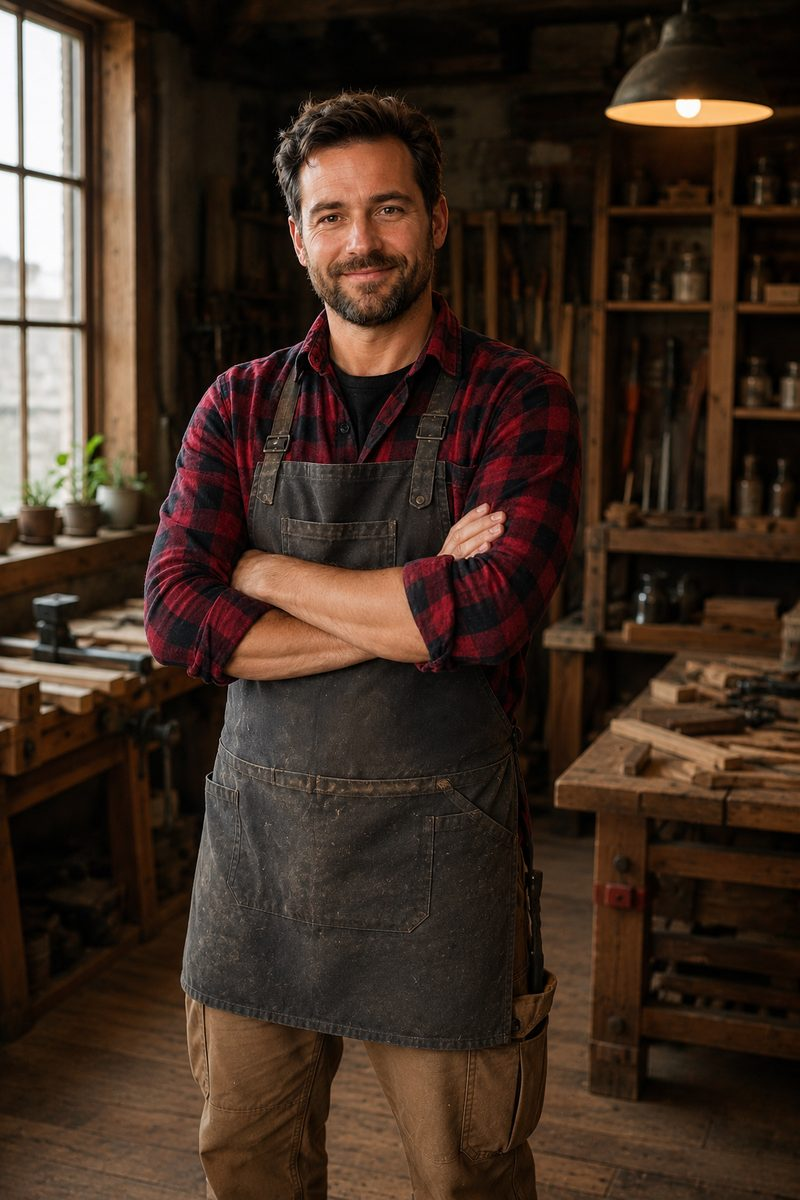
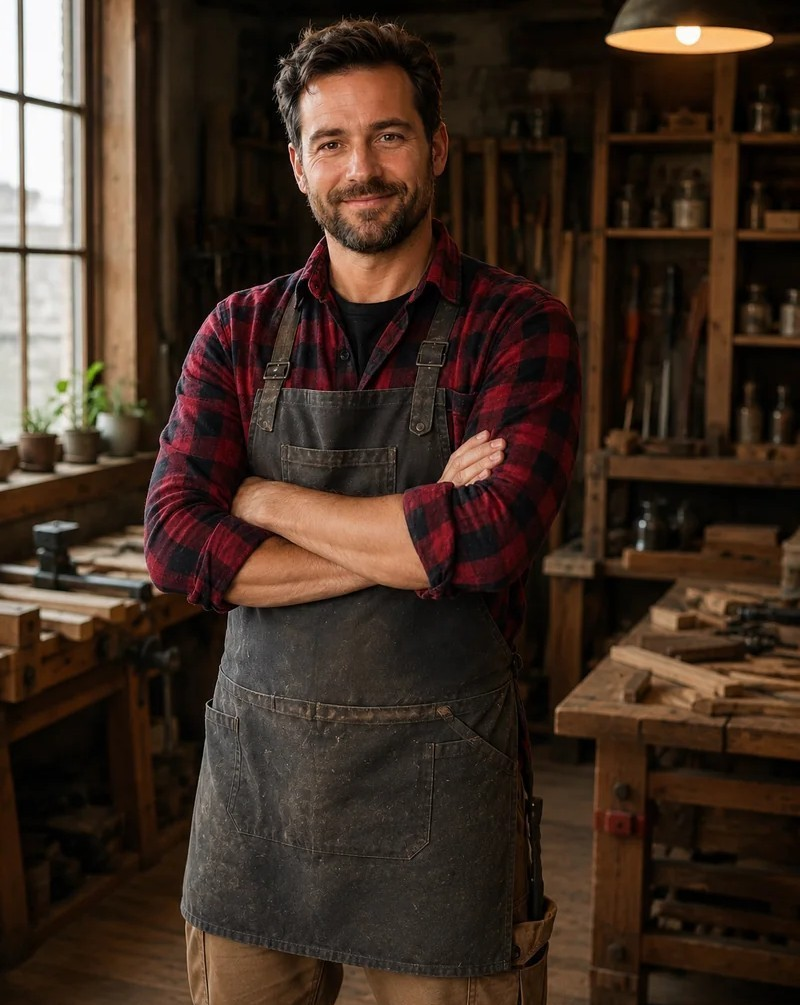
tweak(hero): ajustements perso Romain — form 450px, tuiles 100px, texte translate-y-12
Hero.tsx :
- Form : w-[450px] fixe sur desktop (vs max-w 680 contraint par la grille
  auto), padding lg:p-6, header non-collant, badge +127 plus visible
- Stepper : cercles rounded-md, labels 11px, h2 23px leading 1.1
- Tuiles categories : h-[100px] (vs 76), icones 35px (vs 18) — plus
  imposantes et lisibles
- Bande photo : left 42% / right 40% (vs 40/35), mask fade 75px (vs 100),
  backgroundImage swap webp → jpg
- Wrapper contenu : max-w-[1350px] (vs 1280), padding vertical compact
  lg:pb-2 lg:pt-4
- Grid : items-start (vs items-center), min-h 500 (vs 700)
- Bloc texte gauche : lg:translate-y-12 (decalage vertical), H1 mt-1 (vs mt-5)

public/images/hero-artisan-800.jpg : remplace par version plus haute resolution

button.tsx : auto-format (semicolons + commas trailing, par le linter)

diff --git a/src/components/ds/Hero.tsx b/src/components/ds/Hero.tsx
@@ -47,36 +47,36 @@ function FormCard() {
   return (
     <form
       onSubmit={handleSubmit}
-      className="w-full max-w-[680px] rounded-md border border-slate-200/70 bg-white p-8 lg:p-10"
+      className="w-full lg:w-[450px] rounded-md border border-slate-200/70 bg-white p-8 lg:p-6"
       style={{
         boxShadow:
           "0 20px 40px -12px rgba(15, 23, 42, 0.22), 0 6px 16px -6px rgba(15, 23, 42, 0.10)",
       }}
       noValidate
     >
-      <div className="flex items-start justify-between gap-3">
+      <div className="flex items-start justify-between">
         <div>
-          <h2 className="text-[20px] font-bold leading-snug tracking-tight text-slate-900 lg:text-[22px]">
+          <h2 className="text-[23px] font-bold leading-[1.1] tracking-tight text-slate-900">
             Décrivez votre besoin
             <br />
             en 2 minutes
           </h2>
-          <p className="mt-1 text-[13px] text-slate-500">
+          <p className="mt-2 text-[14px] text-slate-500">
             Gratuit, rapide et sans engagement
           </p>
         </div>
         <span
-          className="inline-flex shrink-0 flex-col items-end rounded-md px-2.5 py-1.5"
+          className="inline-flex shrink-0 flex-col items-center rounded-md px-2 py-2"
           style={{ backgroundColor: "#eff6ff" }}
         >
           <span
-            className="text-[13px] font-bold leading-none"
-            style={{ color: "#1e3a8a" }}
+            className="text-[14px] font-bold leading-none"
+            style={{ color: "rgb(11, 37, 107)" }}
           >
             +127
           </span>
           <span
-            className="mt-0.5 text-[10px] font-medium"
+            className="text-[11px] font-medium"
             style={{ color: "#1e40af" }}
           >
             demandes ce mois
@@ -84,7 +84,7 @@ function FormCard() {
         </span>
       </div>
 
-      <div className="mt-4 grid grid-cols-3 items-center gap-2 text-center">
+      <div className="mt-5 grid grid-cols-3 items-center gap-2 text-center">
         {[
           { n: 1, label: "Votre besoin" },
           { n: 2, label: "Vos infos" },
@@ -95,7 +95,7 @@ function FormCard() {
             <div key={s.n} className="flex flex-col items-center">
               <div
                 className={cn(
-                  "grid h-7 w-7 place-items-center text-[12px] font-semibold",
+                  "grid h-7 w-7 place-items-center text-[13px] rounded-md font-semibold",
                   active
                     ? "bg-[#1e3a8a] text-white"
                     : "border border-slate-200 bg-white text-slate-400",
@@ -105,7 +105,7 @@ function FormCard() {
               </div>
               <div
                 className={cn(
-                  "mt-1.5 text-[10.5px] font-medium",
+                  "mt-1.5 text-[11px] font-medium",
                   active ? "text-slate-900" : "text-slate-400",
                 )}
               >
@@ -115,10 +115,10 @@ function FormCard() {
           );
         })}
       </div>
-      <div className="mt-3 mb-4 h-px bg-slate-100" />
+      <div className="mt-4 mb-4 h-px bg-slate-100" />
 
-      <div className="mb-2.5 text-[13.5px] font-semibold text-slate-900">
-        Quel type de service recherchez-vous&nbsp;?
+      <div className="mb-2.5 text-[15px] font-semibold text-slate-900">
+        Quel type de service recherchez-vous ?
       </div>
 
       <div className="grid grid-cols-3 gap-2">
@@ -131,7 +131,7 @@ function FormCard() {
               type="button"
               onClick={() => setSelected(c.id)}
               className={cn(
-                "flex h-[76px] flex-col items-center justify-center gap-1 border p-2 transition-colors duration-150",
+                "flex h-[100px] flex-col items-center justify-center gap-1 border p-2 transition-colors duration-150",
                 isSel
                   ? c.urgent
                     ? "border-[#ea580c] bg-orange-50 text-[#ea580c]"
@@ -141,7 +141,7 @@ function FormCard() {
               aria-pressed={isSel}
             >
               <Icon
-                className="h-[18px] w-[18px]"
+                className="h-[35px] w-[35px]"
                 strokeWidth={1.75}
                 aria-hidden
               />
@@ -189,24 +189,21 @@ export function Hero() {
     <section className="relative overflow-hidden bg-white">
       {/* DESKTOP — photo dans une zone bornee, fades integres via mask-image */}
       <div
-        // LEVIER position bande photo : left/right en % (de la section).
         className="pointer-events-none absolute bottom-0 top-0 hidden lg:block"
-        style={{ left: "40%", right: "35%" }}
+        style={{ left: "42%", right: "40%" }}
         aria-hidden
       >
         <div
           className="absolute inset-0"
           style={{
-            // LEVIER image, zoom et cadrage artisan
-            backgroundImage: "url('/images/hero-artisan-800.webp')",
+            backgroundImage: "url('/images/hero-artisan-800.jpg')",
             backgroundSize: "auto 100%",
-            backgroundPosition: "center center",
             backgroundRepeat: "no-repeat",
             // LEVIER fade : uniquement bords gauche/droite (haut/bas = nets).
             // 100px = largeur du fade de chaque cote. Augmenter pour fondu
             // plus large, diminuer pour fade plus serre pres du bord.
             maskImage:
-              "linear-gradient(to right, transparent 0, black 100px, black calc(100% - 100px), transparent 100%)",
+              "linear-gradient(to right, transparent 0, black 75px, black calc(100% - 75px), transparent 100%)",
             WebkitMaskImage:
               "linear-gradient(to right, transparent 0, black 100px, black calc(100% - 100px), transparent 100%)",
           }}
@@ -227,10 +224,10 @@ export function Hero() {
         <div className="absolute inset-0 bg-white/85" />
       </div>
 
-      <div className="relative mx-auto max-w-[1280px] px-6 pb-10 pt-10 lg:pb-14 lg:pt-14">
-        <div className="grid min-h-[700px] items-center gap-6 lg:grid-cols-[1fr_auto] lg:gap-0">
+      <div className="relative mx-auto max-w-[1350px] px-6 pb-10 pt-10 lg:pb-2 lg:pt-4">
+        <div className="grid min-h-[500px] items-start gap-6 lg:grid-cols-[1fr_auto] lg:gap-0">
           {/* GAUCHE — texte. LEVIER : max-w-[Xpx] pour la largeur du bloc */}
-          <div className="relative z-10 flex max-w-[500px] flex-col">
+          <div className="relative z-10 flex max-w-[500px] flex-col lg:translate-y-12">
             <div
               className="inline-flex items-center gap-2 self-start rounded-md px-3 py-1.5"
               style={{ backgroundColor: "#fef3e2" }}
@@ -245,7 +242,7 @@ export function Hero() {
             </div>
 
             <h1
-              className="mt-5 text-[42px] font-bold leading-[1.05] tracking-tight sm:text-[48px] lg:text-[56px]"
+              className="mt-1 text-[42px] font-bold leading-[1.05] tracking-tight sm:text-[48px] lg:text-[56px]"
               style={{ color: "#1e3a8a" }}
             >
               <span className="block">Le bon artisan,</span>

diff --git a/src/components/ui/button.tsx b/src/components/ui/button.tsx
@@ -1,7 +1,7 @@
-import { Button as ButtonPrimitive } from "@base-ui/react/button"
-import { cva, type VariantProps } from "class-variance-authority"
+import { Button as ButtonPrimitive } from "@base-ui/react/button";
+import { cva, type VariantProps } from "class-variance-authority";
 
-import { cn } from "@/lib/utils"
+import { cn } from "@/lib/utils";
 
 const buttonVariants = cva(
   "group/button inline-flex shrink-0 items-center justify-center rounded-lg border border-transparent bg-clip-padding text-sm font-medium whitespace-nowrap transition-all outline-none select-none focus-visible:border-ring focus-visible:ring-3 focus-visible:ring-ring/50 active:not-aria-[haspopup]:translate-y-px disabled:pointer-events-none disabled:opacity-50 aria-invalid:border-destructive aria-invalid:ring-3 aria-invalid:ring-destructive/20 dark:aria-invalid:border-destructive/50 dark:aria-invalid:ring-destructive/40 [&_svg]:pointer-events-none [&_svg]:shrink-0 [&_svg:not([class*='size-'])]:size-4",
@@ -41,8 +41,8 @@ const buttonVariants = cva(
       variant: "default",
       size: "default",
     },
-  }
-)
+  },
+);
 
 function Button({
   className,
@@ -56,7 +56,7 @@ function Button({
       className={cn(buttonVariants({ variant, size, className }))}
       {...props}
     />
-  )
+  );
 }
 
-export { Button, buttonVariants }
+export { Button, buttonVariants };
